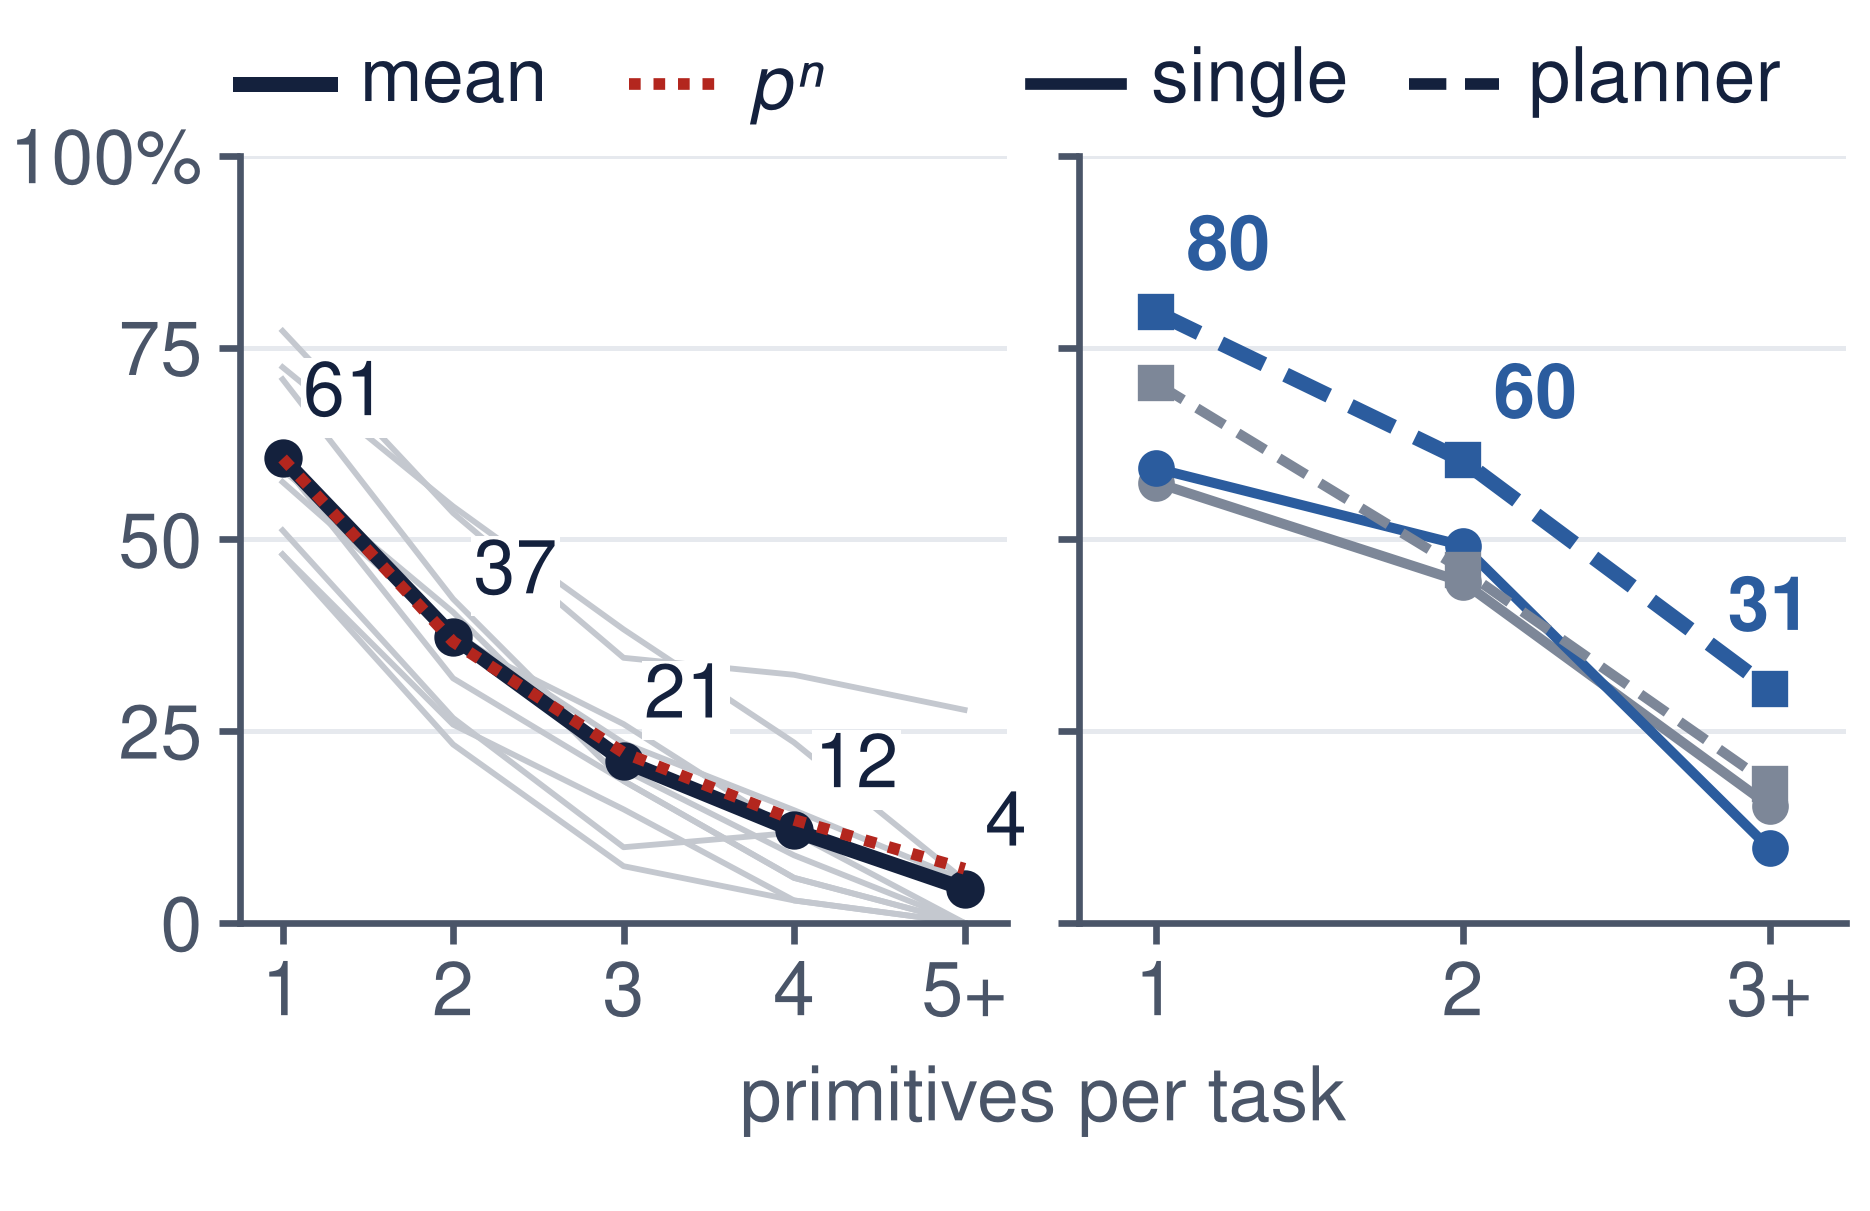
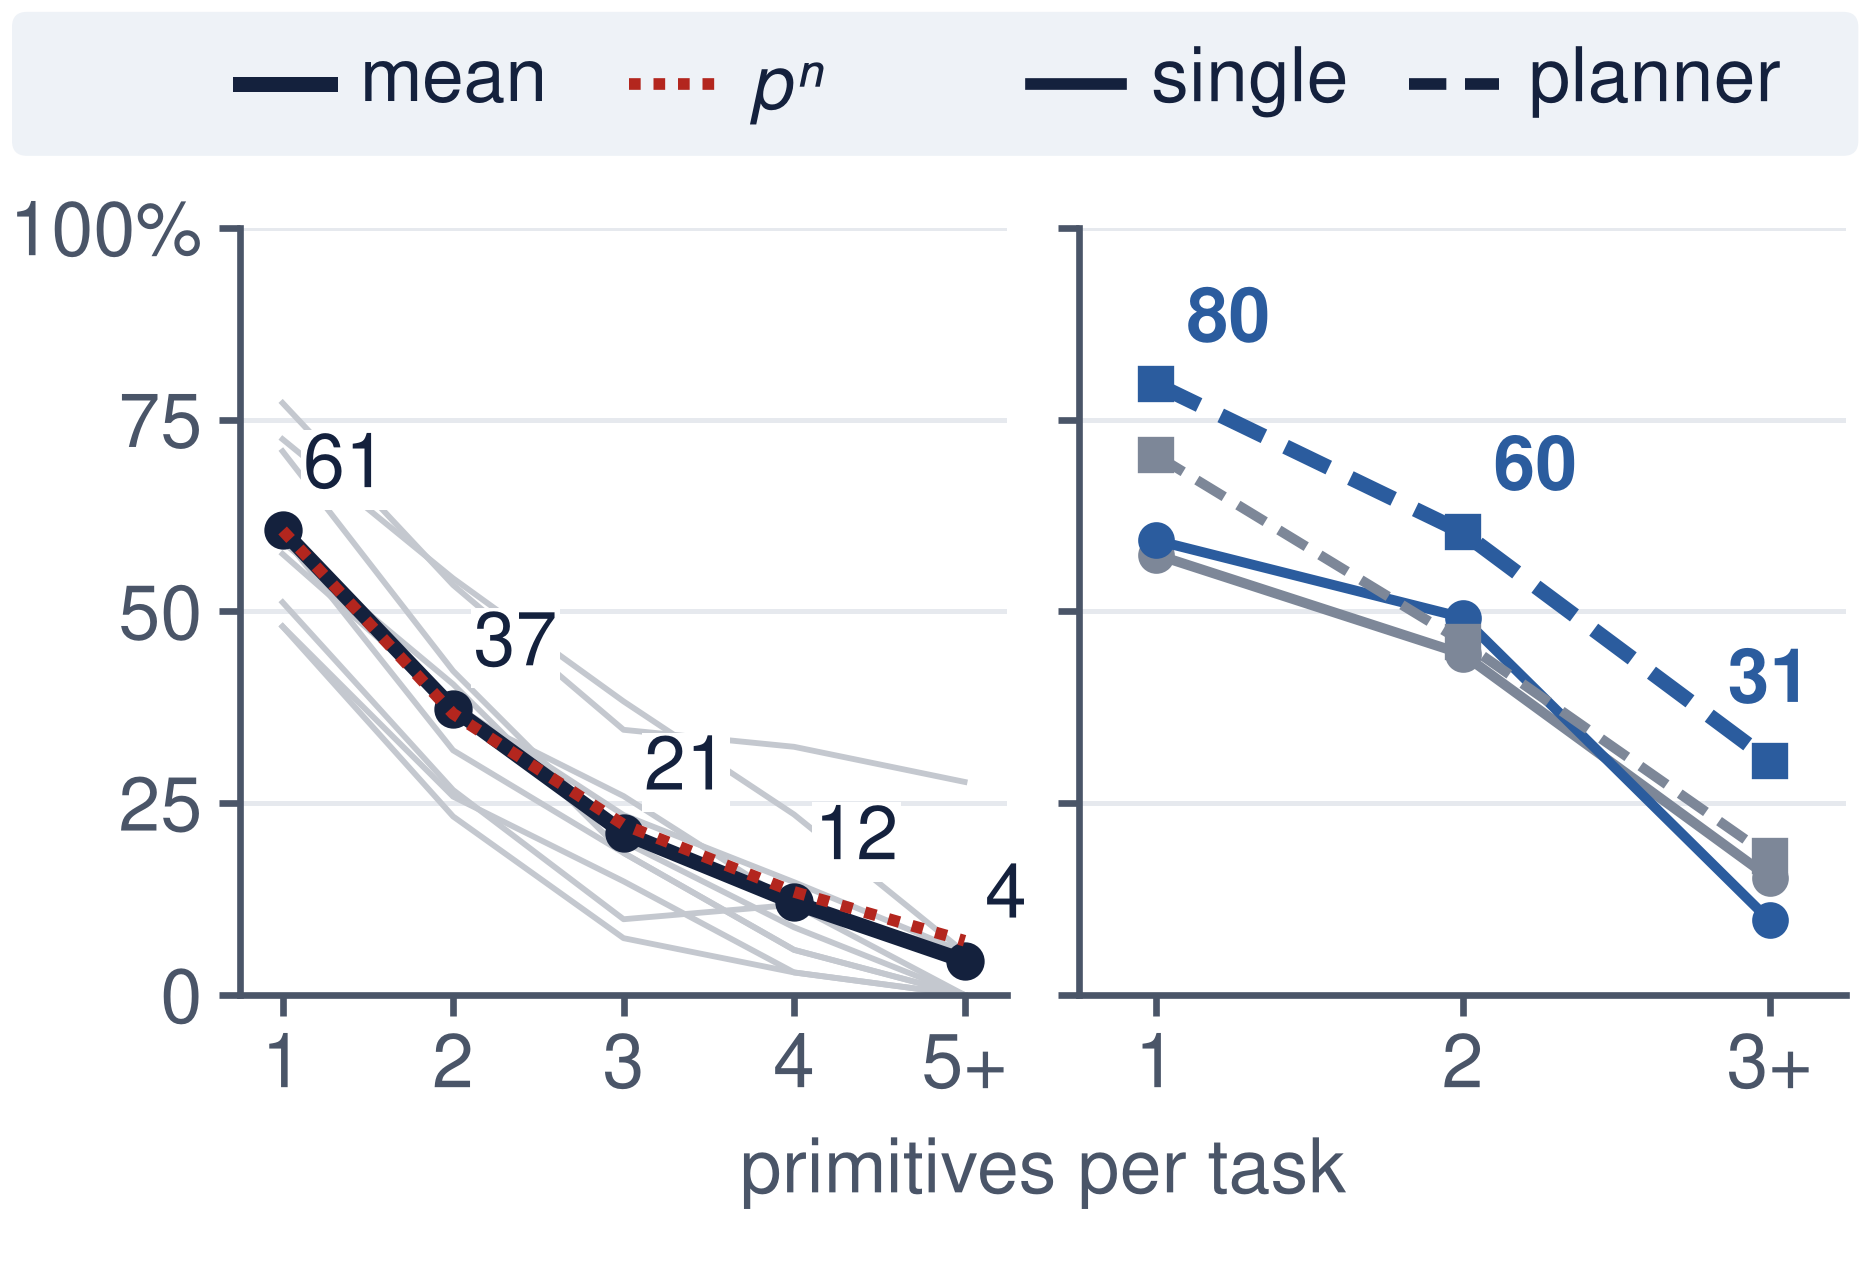
Chain figure: legend on the light grey panel, as the other figures
Claude-Session: https://claude.ai/code/session_01RnHqwfNz7WH8EmXGFqb2JM

diff --git a/docs/figures/chain/make_chain.py b/docs/figures/chain/make_chain.py
@@ -69,7 +69,7 @@ def main():
     W = COL_W
     left, gap, right = 0.4, 0.12, 0.04                   # room for the y ticks; between the plots; right margin
     s_ = (W - left - gap - right) / 2                    # each plot is square
-    leg, top = 0.24, 0.26                                # legend row; plots start below it
+    leg, top = 0.24, 0.38                                # legend panel height; plots start below it
     H = top + s_ + 0.48
     fig = plt.figure(figsize=(W, H))
     A = fig.add_axes([0, 0, 1, 1]); A.axis("off"); A.set_xlim(0, W); A.set_ylim(H, 0)
@@ -81,7 +81,8 @@ def main():
         A.add_line(Line2D([x, x + gw], [y] * 2, zorder=3, **kw))
         return x + gw + gg + _w(fig, A.text(x + gw + gg, y, lab, fontsize=FS["legend"], va="center", color=INK, **tkw))
 
-    y0 = leg / 2 + 0.02                                  # the legend: above each plot, its own line kinds
+    panel(A, 0.02, 0.02, W - 0.04, leg)                  # a light panel, as the other figures' legends (user,
+    y0 = leg / 2 + 0.02                                  # 2026-10-06); above each plot, its own line kinds
     x = entry(left, y0, dict(color=INK, lw=1.8), "mean") + 0.14
     entry(x, y0, dict(color=BAD, lw=1.4, ls=(0, (1.0, 1.1))), "p\u207f", style="italic")
     x = entry(left + s_ + gap - 0.08, y0, dict(color=INK, lw=1.4), "single") + 0.1
